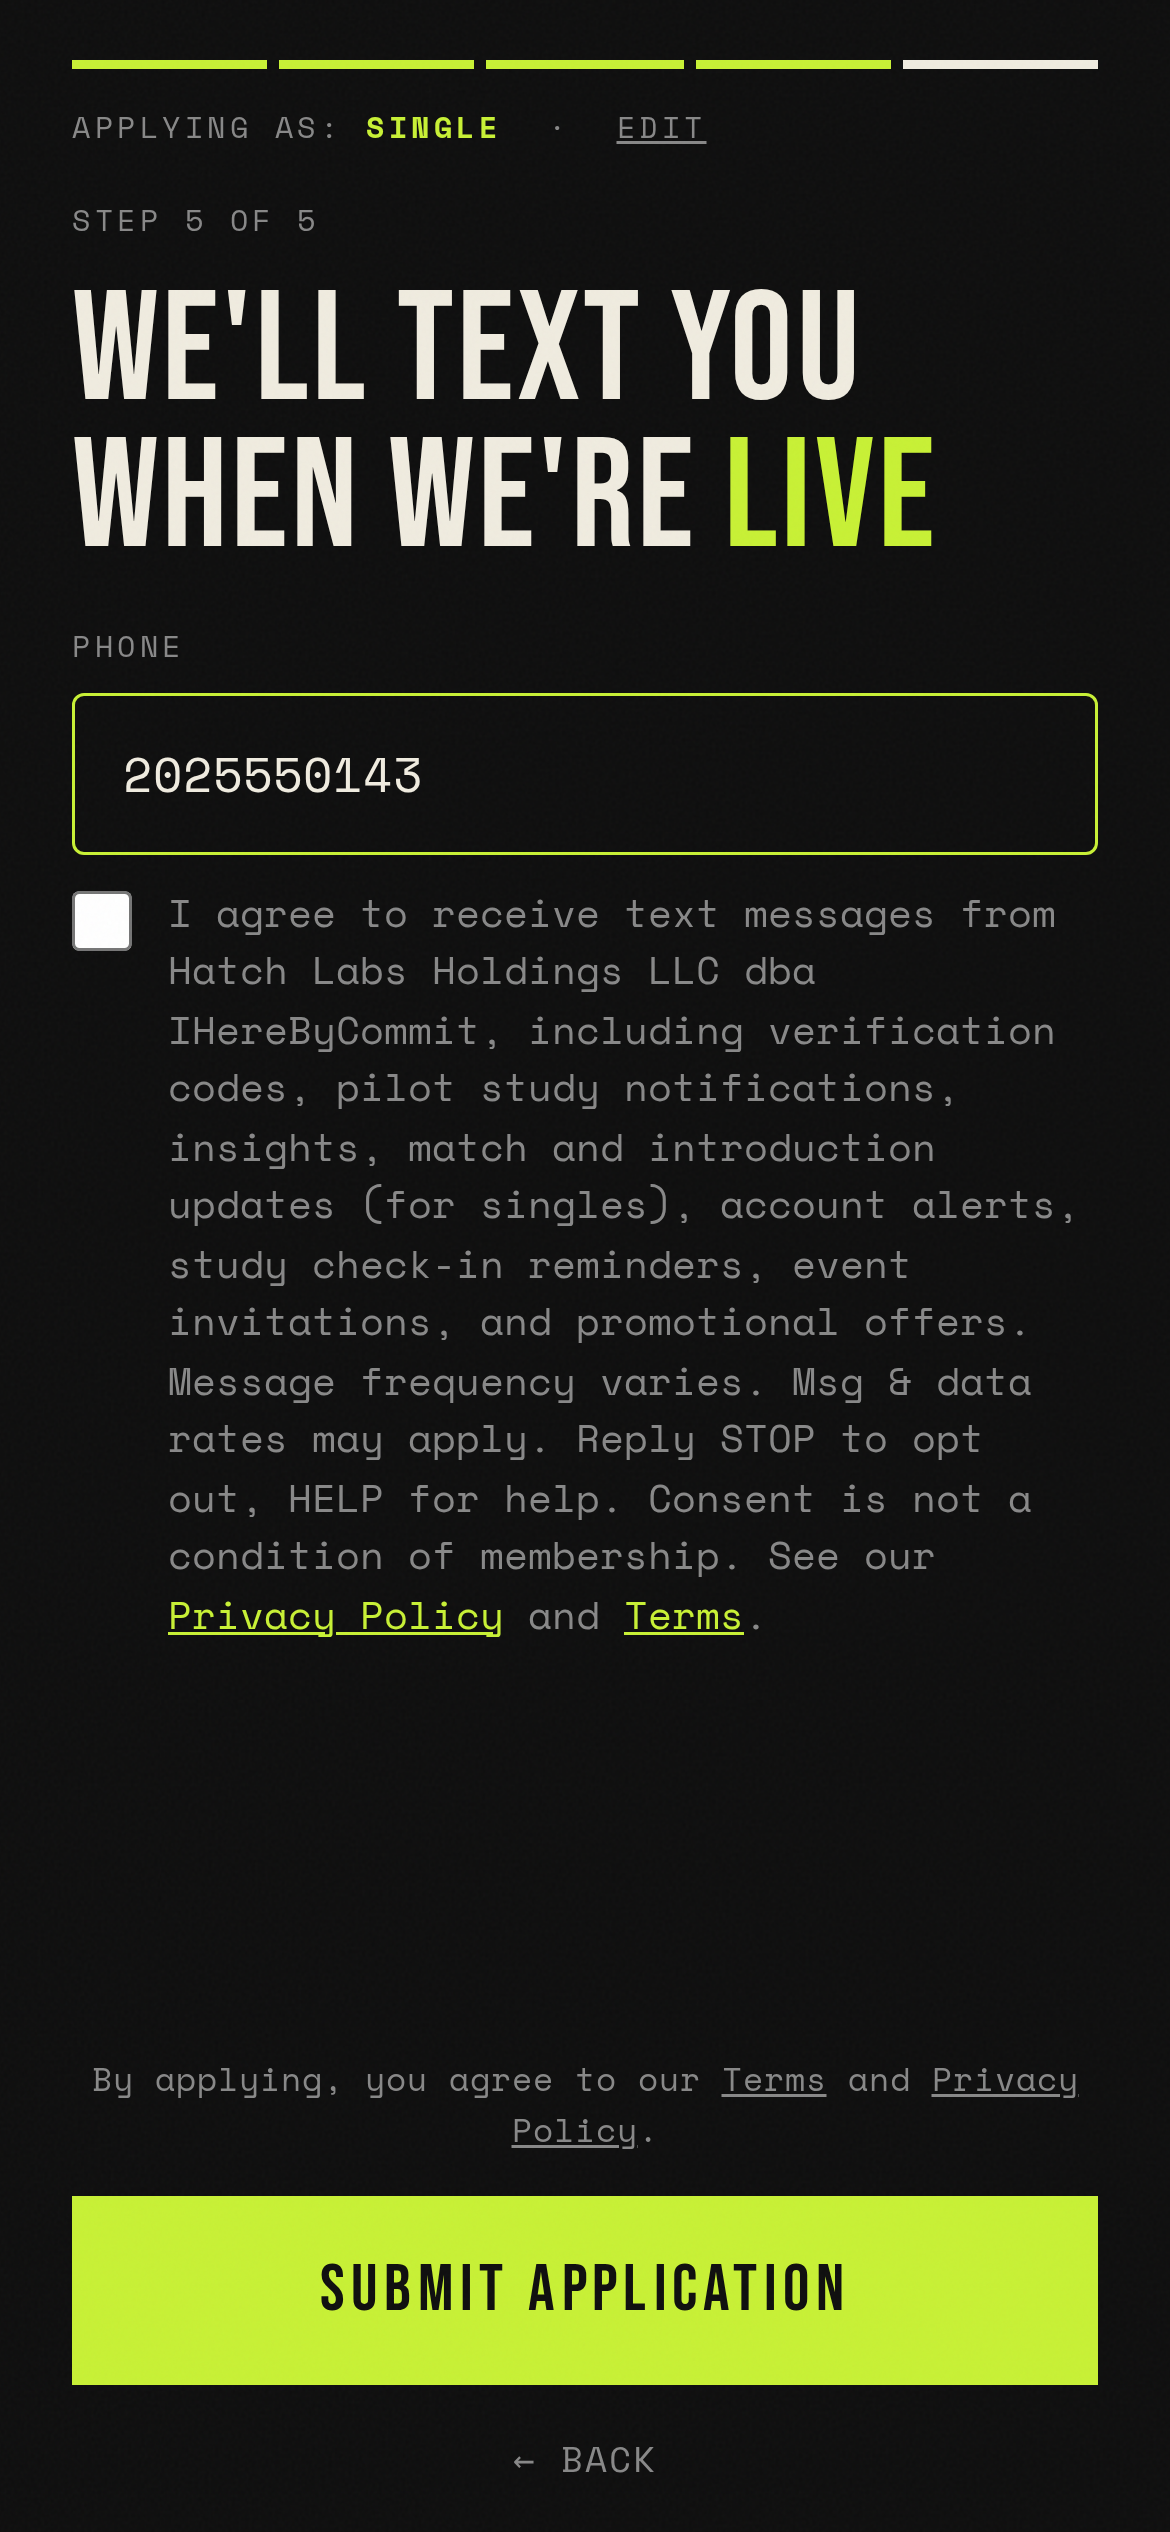
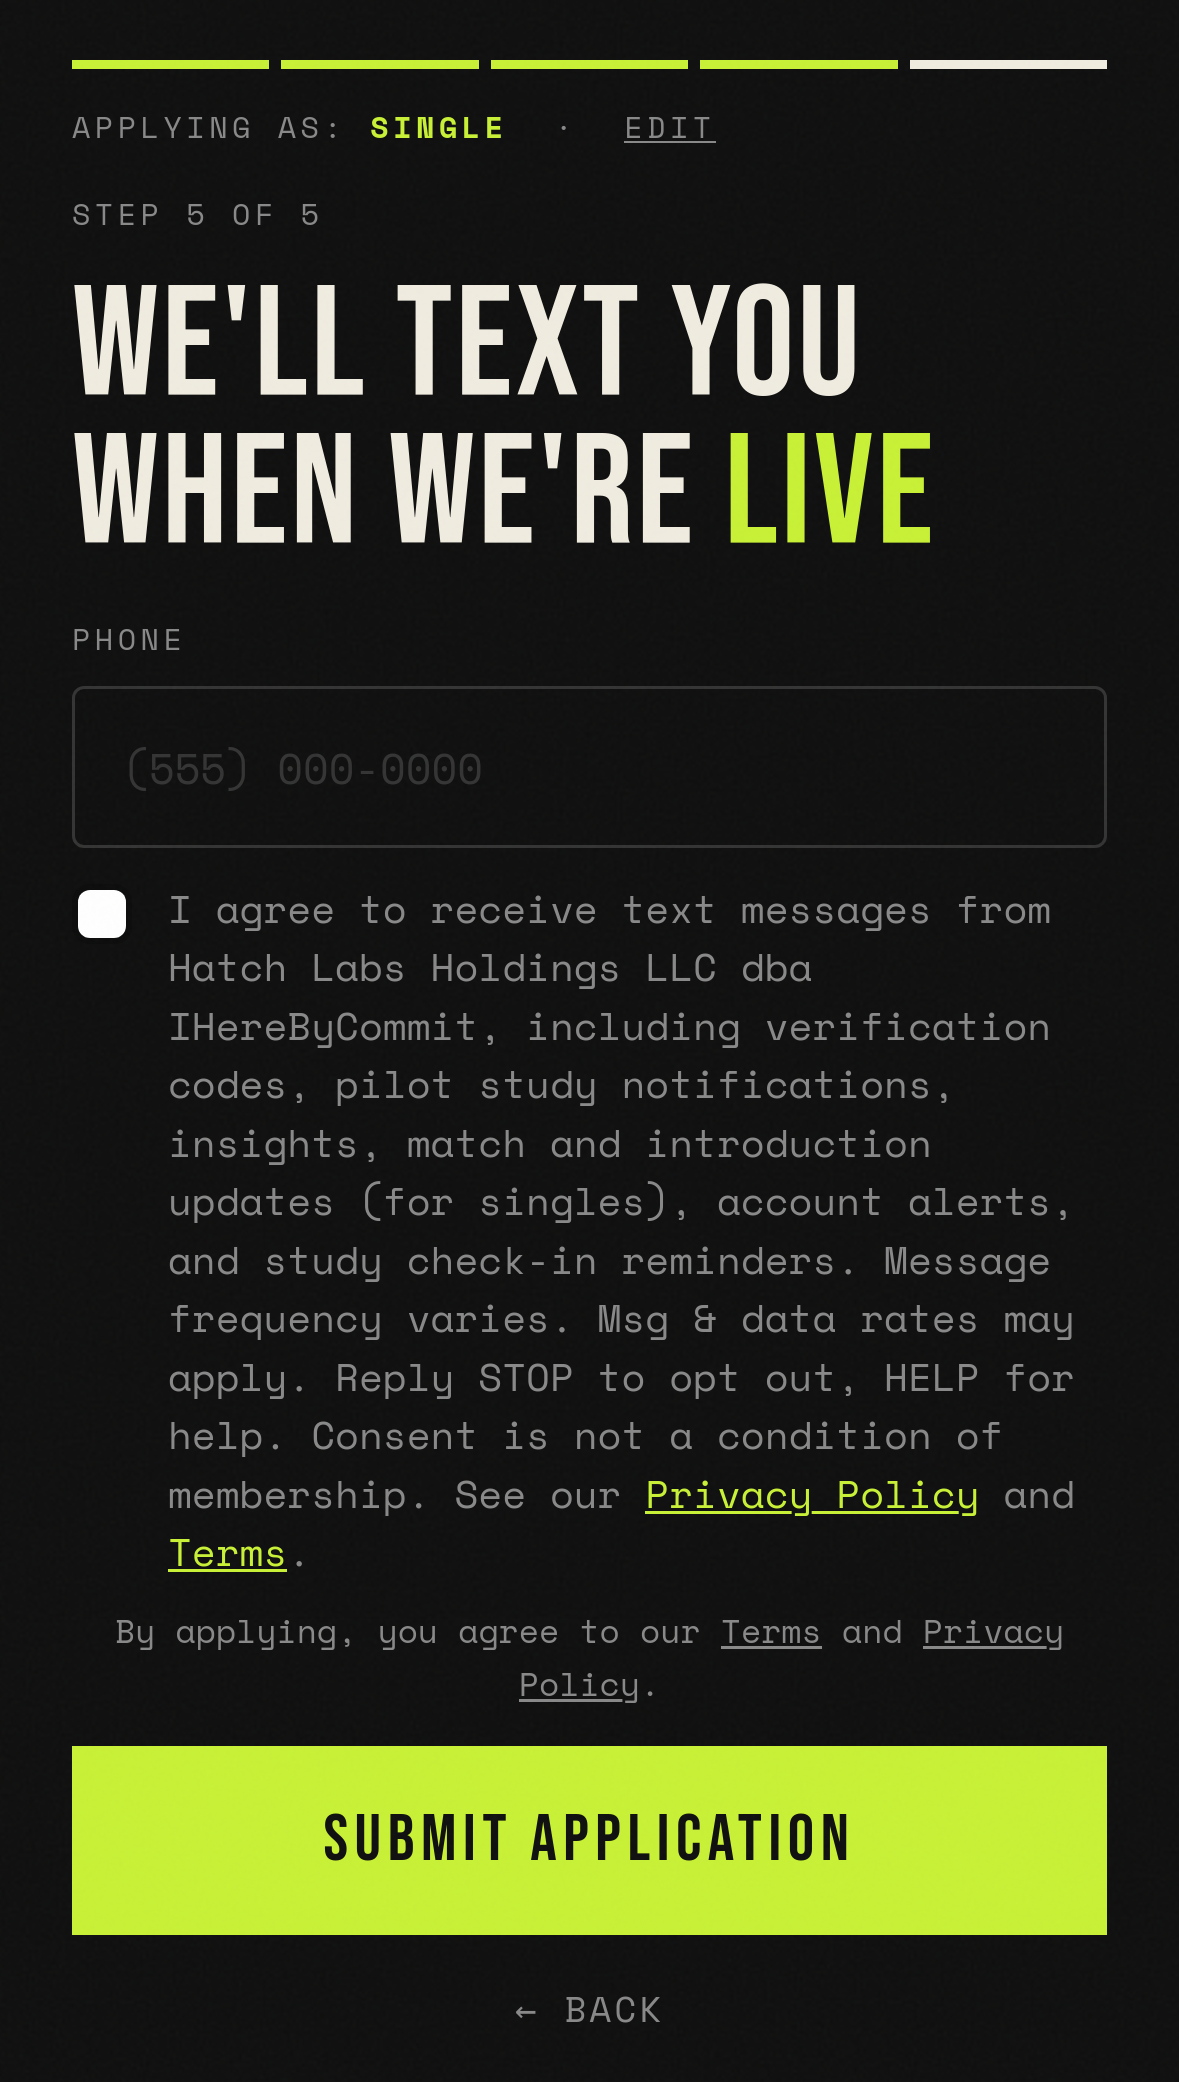
Privacy+Terms SMS transactional-only; new opt-in proof images

diff --git a/privacy/index.html b/privacy/index.html
@@ -71,7 +71,7 @@
     </nav>
 
     <h1 class="doc-title">Privacy Policy</h1>
-    <p class="doc-effective">Effective: October 19, 2026</p>
+    <p class="doc-effective">Effective: October 26, 2026</p>
     <div class="doc-divider"></div>
 
     <div class="doc-section">
@@ -125,7 +125,7 @@
       <ul class="doc-list">
         <li>To review applications and contact you about Cohort 01 and the study.</li>
         <li>To select and balance Cohort 01.</li>
-        <li>To send you text messages, only if you opted in: verification codes, pilot study notifications, insights, match and introduction updates (for singles), account alerts, study check-in reminders, event invitations, and promotional offers.</li>
+        <li>To send you text messages, only if you opted in: verification codes, pilot study notifications, insights, match and introduction updates (for singles), account alerts, and study check-in reminders. We do not send marketing or promotional text messages.</li>
         <li>To analyze who is applying and to publish aggregate, de-identified statistics and findings about our applicant pool — for example, how many people applied as couples, which cities they're in, or what they say they want. We never publish anything that identifies an individual.</li>
         <li>To tell you by email about other apps, products, and early-access invitations from Hatch Labs. Every marketing email includes an unsubscribe link. Unsubscribing from marketing doesn't remove you from the study list unless you ask us to. We never use data from connected accounts, or the fact that you connected one, to market other Hatch Labs products.</li>
         <li>If you connect accounts, to provide the features you connected them for, such as showing you mutual friends or keeping you apart from someone you've blocked, as described below.</li>
@@ -277,7 +277,7 @@
 
     <div class="doc-section" id="sms">
       <h2 class="doc-section-heading">Text messages</h2>
-      <p class="doc-p">If you opt in, Hatch Labs Holdings LLC dba IHereByCommit will send you text messages through our messaging provider, Twilio, including verification codes, pilot study notifications, insights, match and introduction updates (for singles), account alerts, study check-in reminders, event invitations, and promotional offers. You opt in by ticking the box under the phone number on the application's last screen; it is never ticked for you. Message frequency varies. Message and data rates may apply. Consent to texts is not a condition of membership, applying, or joining the study. We will not send you marketing texts unless you separately agree to receive them.</p>
+      <p class="doc-p">If you opt in, Hatch Labs Holdings LLC dba IHereByCommit will send you text messages through our messaging provider, Twilio, including verification codes, pilot study notifications, insights, match and introduction updates (for singles), account alerts, and study check-in reminders. We do not send marketing or promotional text messages. You opt in by ticking the box under the phone number on the application's last screen; it is never ticked for you. Message frequency varies. Message and data rates may apply. Consent to texts is not a condition of membership, applying, or joining the study. We will not send you marketing texts unless you separately agree to receive them.</p>
       <p class="doc-p"><strong>Your mobile number is not shared for marketing.</strong> No mobile information will be shared with third parties or affiliates for marketing or promotional purposes. Mobile phone numbers and SMS opt-in data and consent are never shared with or sold to any third parties. Text-message opt-in data and consent are excluded from every category of sharing in this policy, except the service providers (such as Twilio) that deliver our texts for us.</p>
       <p class="doc-p"><strong>How to stop texts.</strong> Reply STOP (or STOPALL, UNSUBSCRIBE, CANCEL, END, or QUIT) to any text and we'll confirm and send no more. Reply START to opt back in. Reply HELP for help, or email <a href="mailto:contact@hatchlabs.com" class="accent-link">contact@hatchlabs.com</a>. You can also email us to stop texts.</p>
 

diff --git a/terms/index.html b/terms/index.html
@@ -71,7 +71,7 @@
     </nav>
 
     <h1 class="doc-title">Terms of Use</h1>
-    <p class="doc-effective">Effective: October 20, 2026</p>
+    <p class="doc-effective">Effective: October 26, 2026</p>
     <div class="doc-divider"></div>
 
     <div class="doc-section">
@@ -106,7 +106,7 @@
     <div class="doc-section" id="sms">
       <h2 class="doc-section-heading">3a. SMS program</h2>
       <p class="doc-p"><strong>Program name:</strong> Hatch Labs Holdings LLC dba IHereByCommit.</p>
-      <p class="doc-p">If you tick the text-message box on the application's last step (it is never ticked for you), you agree to receive text messages from Hatch Labs Holdings LLC dba IHereByCommit, including verification codes, pilot study notifications, insights, match and introduction updates (for singles), account alerts, study check-in reminders, event invitations, and promotional offers.</p>
+      <p class="doc-p">If you tick the text-message box on the application's last step (it is never ticked for you), you agree to receive text messages from Hatch Labs Holdings LLC dba IHereByCommit, including verification codes, pilot study notifications, insights, match and introduction updates (for singles), account alerts, and study check-in reminders. We do not send marketing or promotional text messages.</p>
       <ul class="doc-list">
         <li>Message frequency varies.</li>
         <li>Msg &amp; data rates may apply.</li>
